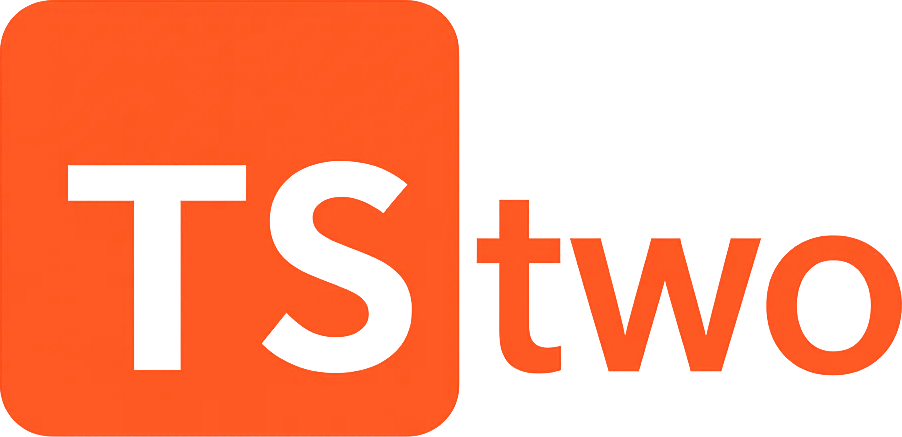
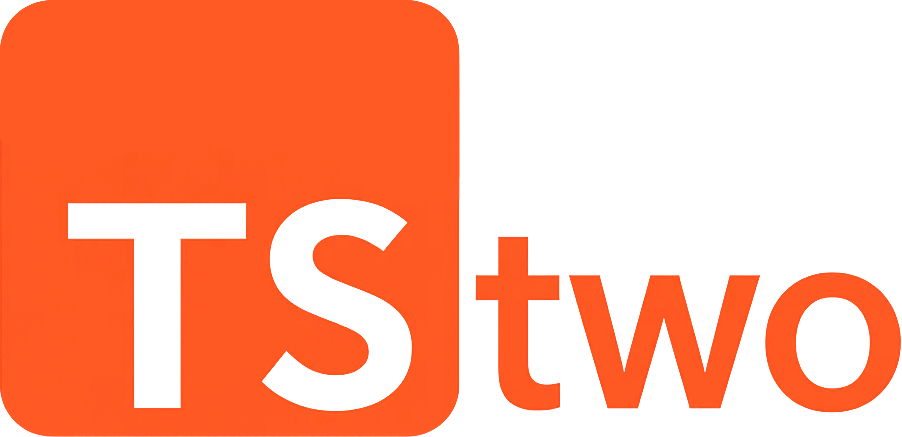
chore: fix readme image

diff --git a/README.md b/README.md
@@ -1,5 +1,5 @@
 <p align="center">
-  <img src="./public/images/tstwo.png" alt="TStwo Logo" width="100%">
+  <img src="./public/images/tstwo.png" alt="TStwo Logo" width="60%">
 </p>
 
 [![License: MIT](https://img.shields.io/badge/License-MIT-yellow.svg)](https://opensource.org/licenses/MIT)
